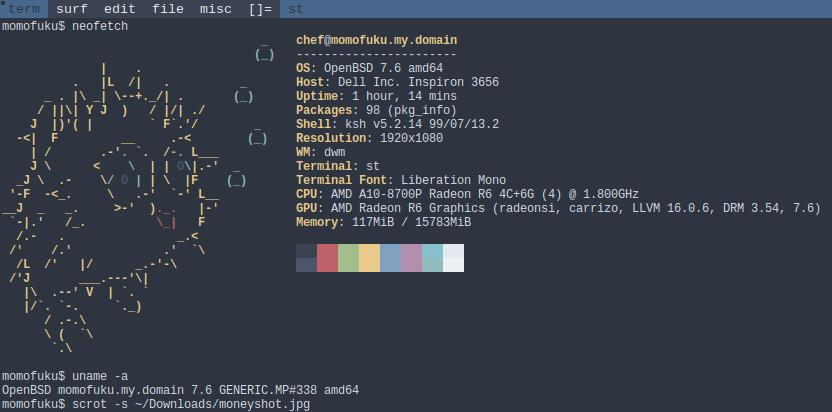
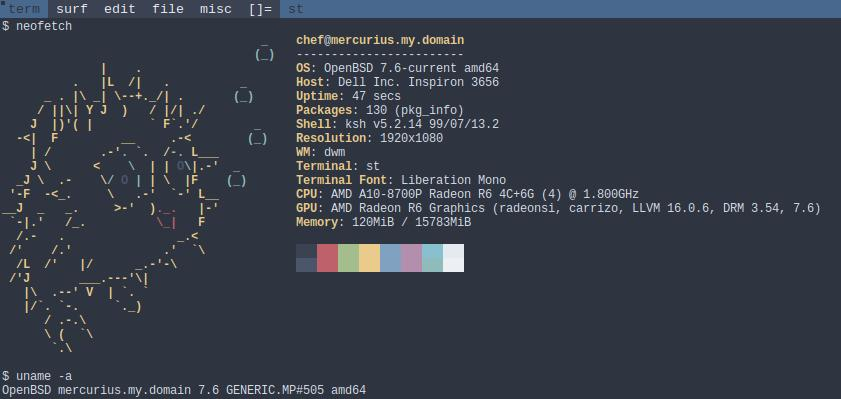
adds and tweaks

diff --git a/README.md b/README.md
@@ -1,4 +1,4 @@
-# OS: OpenBSD 7.6
+# OS: OpenBSD 7.6-current
 
 https://www.openbsd.org
 
